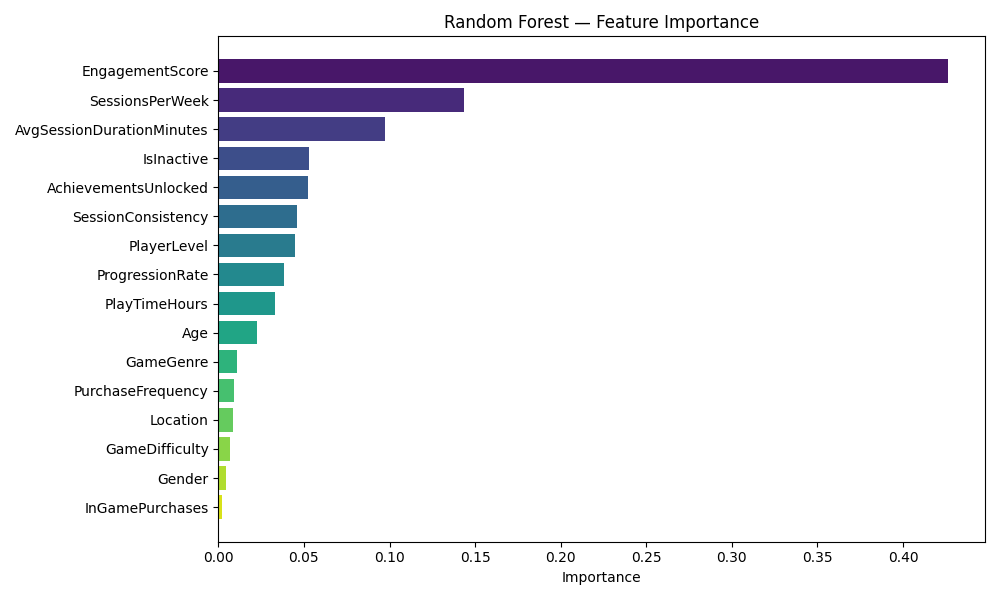
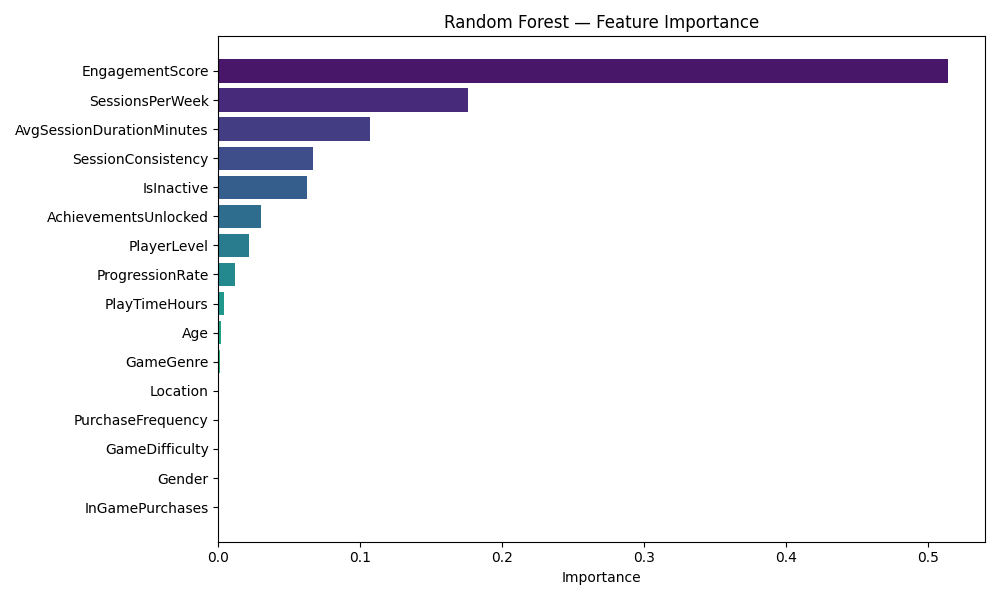
feat: reduce Random Forest overconfidence with pruned hyperparameters
- Limited max_depth to 10 and min_samples_leaf to 20
- This stops the model from polarizing probabilities to 0% and 100%
- Generates a smoother, more realistic churn probability distribution

diff --git a/src/train_random_forest.py b/src/train_random_forest.py
@@ -32,7 +32,7 @@ def main():
     os.makedirs(PLOTS_DIR, exist_ok=True)
 
     # ── Train ──────────────────────────────────────────────────
-    model = RandomForestClassifier(n_estimators=100, random_state=42, n_jobs=-1)
+    model = RandomForestClassifier(n_estimators=100, max_depth=10, min_samples_leaf=20, random_state=42, n_jobs=-1)
     model.fit(X_train_scaled, y_train)
 
     # ── Evaluate ───────────────────────────────────────────────
@@ -80,7 +80,6 @@ def main():
     plt.close()
     print(f"Confusion matrix saved to {cm_path}")
 
-    # ── Feature importance ─────────────────────────────────────
     importances = model.feature_importances_
     indices = np.argsort(importances)[::-1]
 

diff --git a/backend/ml/train.py b/backend/ml/train.py
@@ -21,9 +21,9 @@ def train_model(X_train, y_train):
     """Train a Random Forest classifier."""
     model = RandomForestClassifier(
         n_estimators=200,
-        max_depth=15,
+        max_depth=10,
         min_samples_split=5,
-        min_samples_leaf=2,
+        min_samples_leaf=20,
         random_state=42,
         n_jobs=-1,
         class_weight="balanced",
